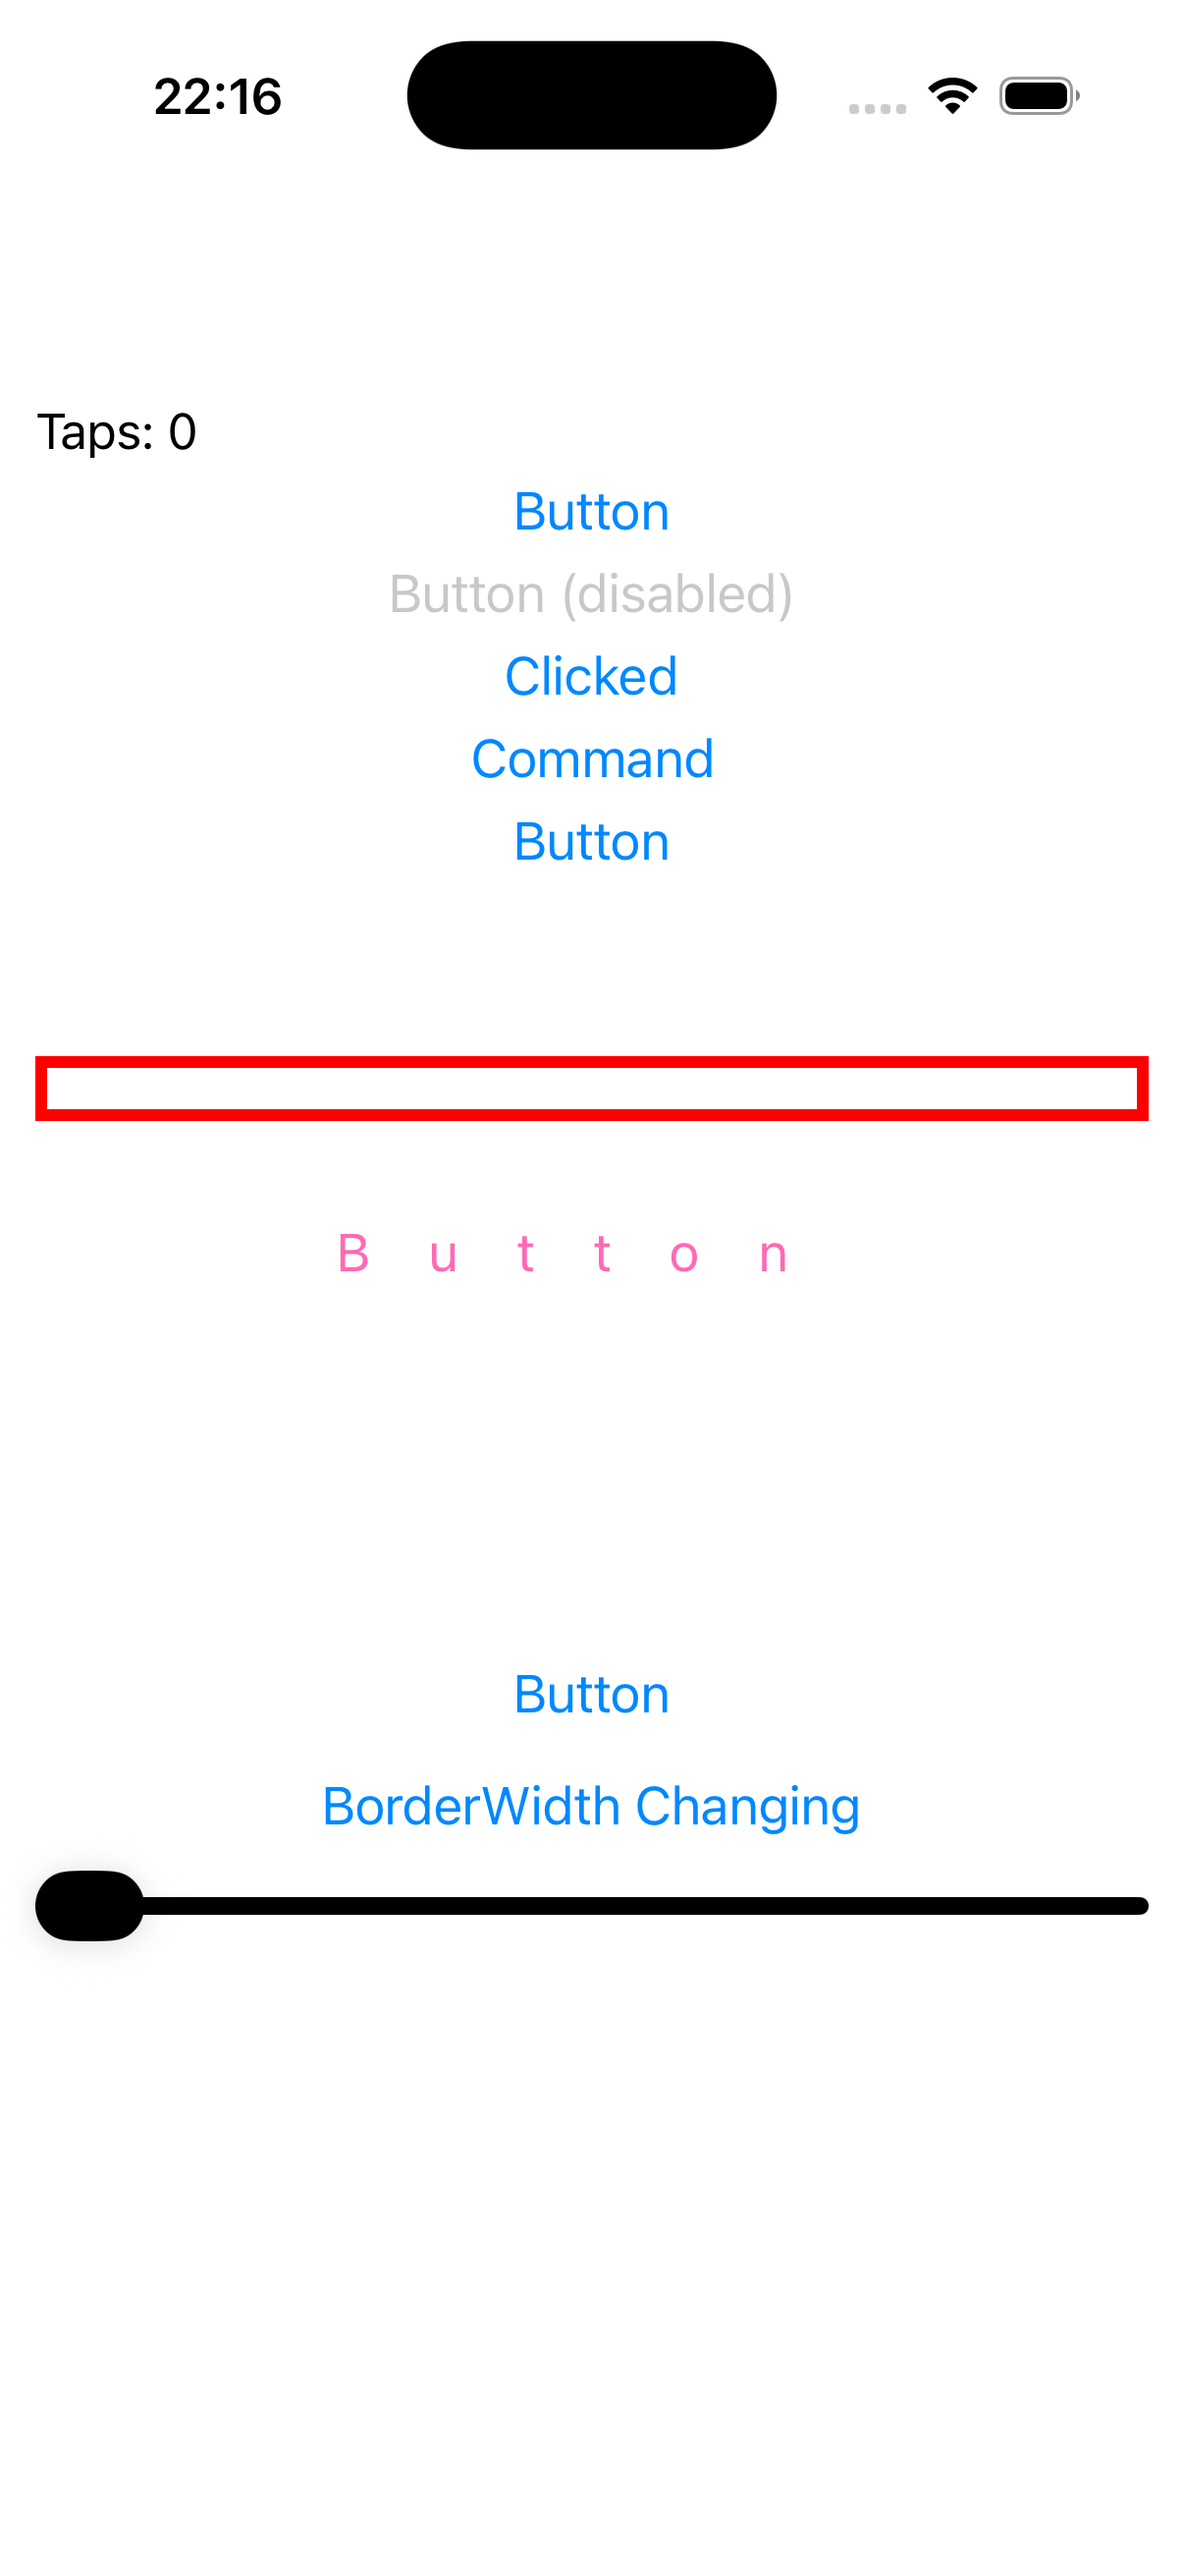
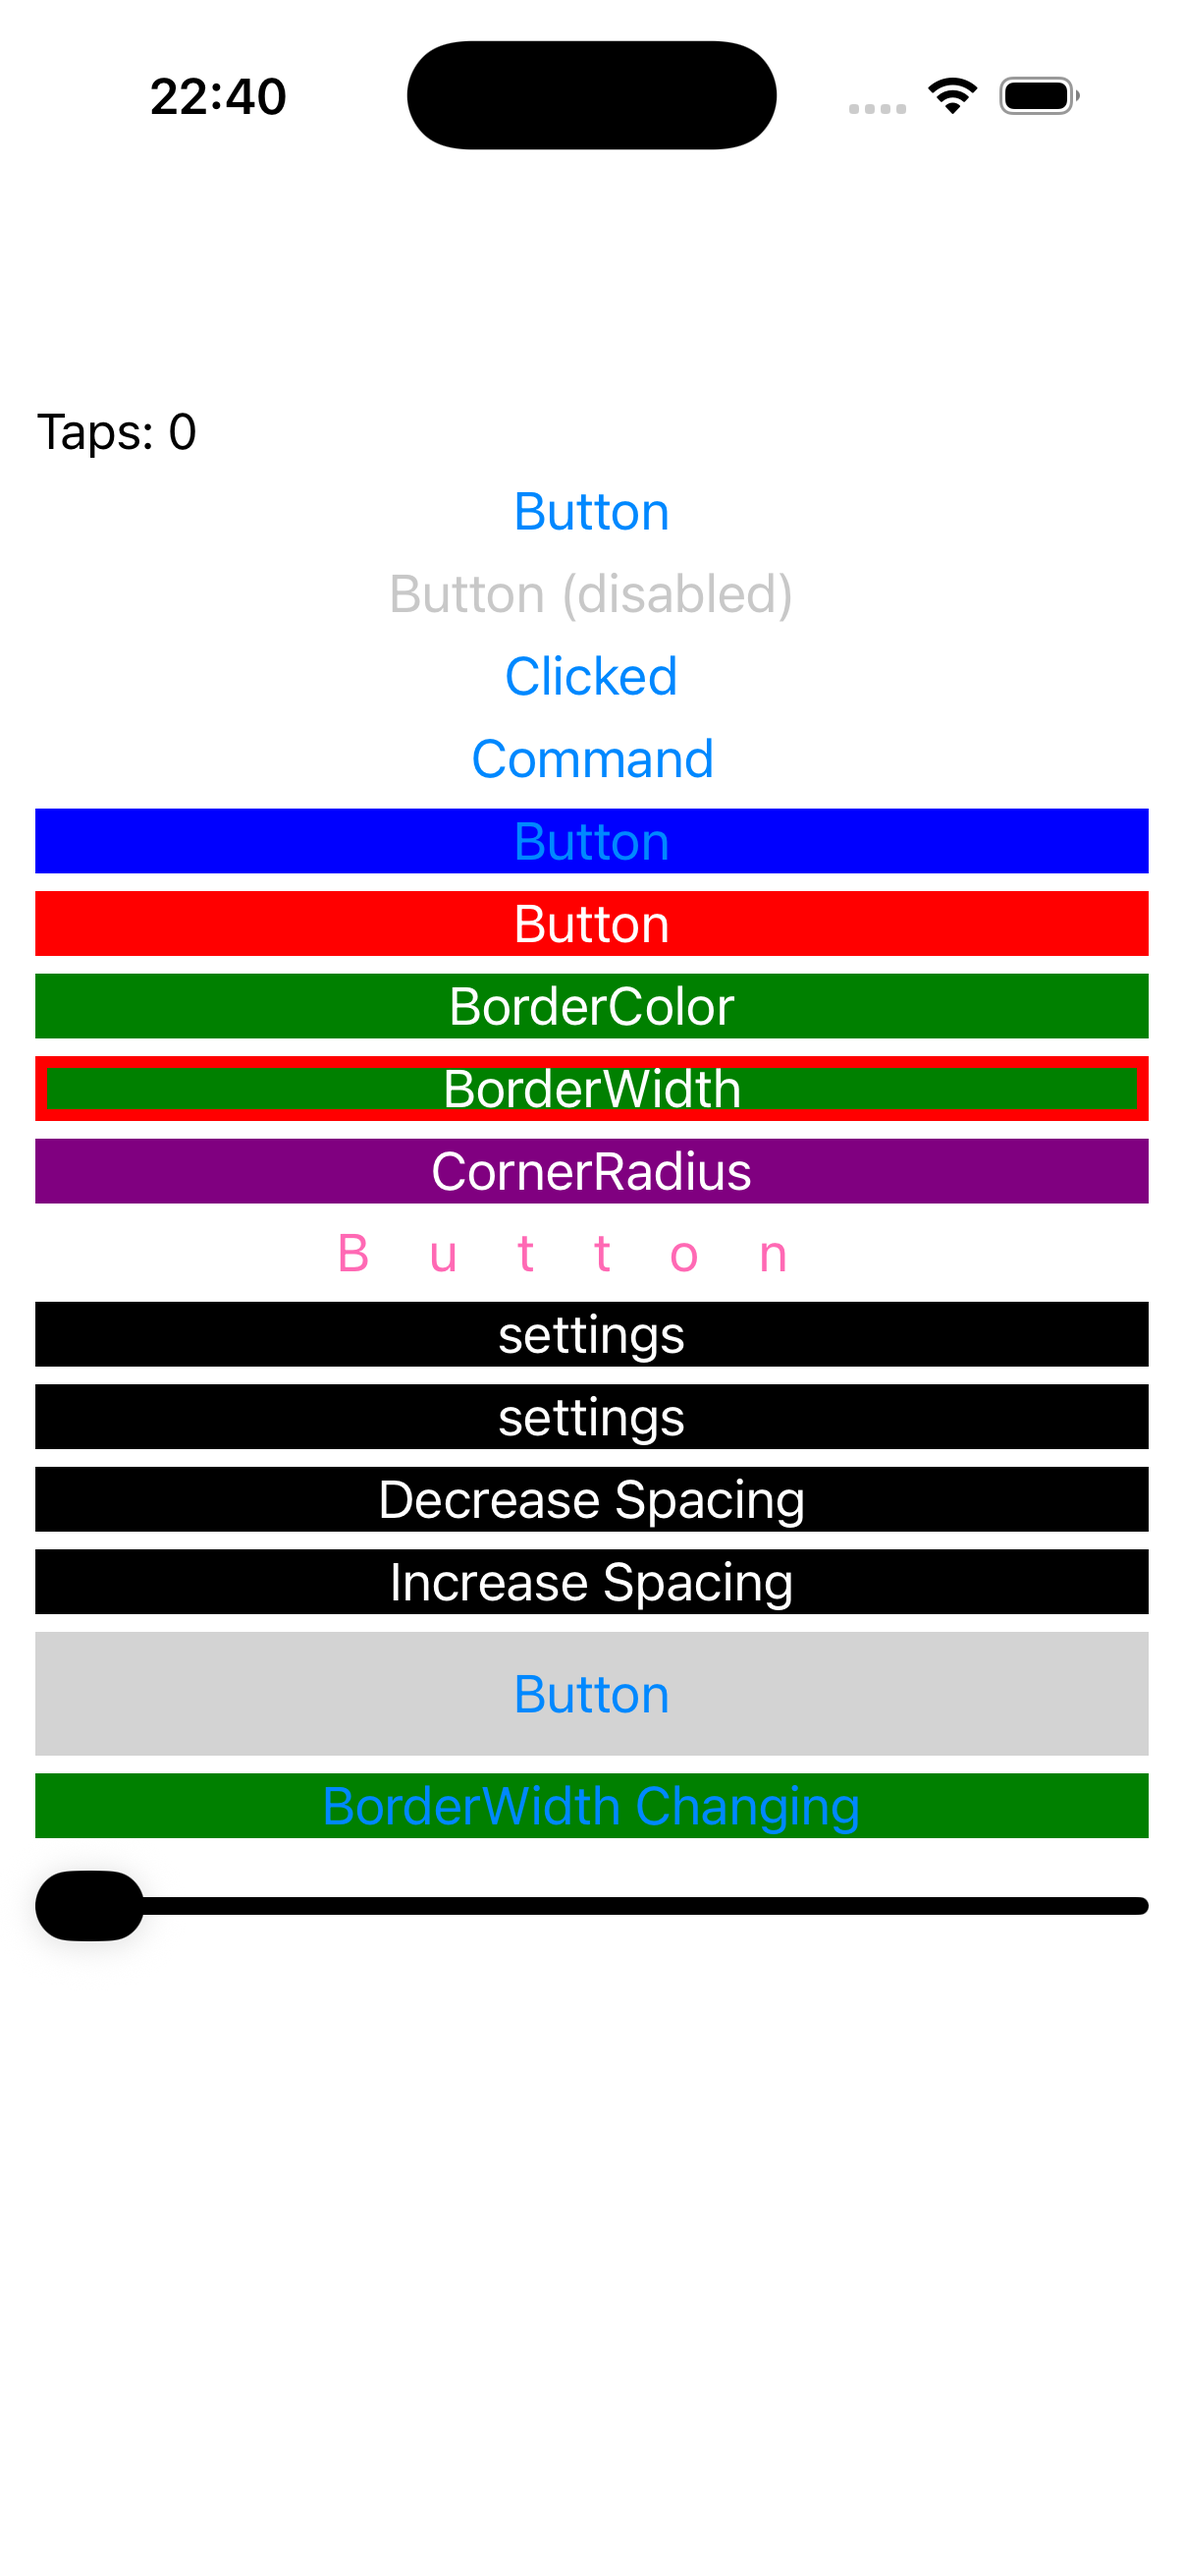
fix(ios,parity): Button renders BackgroundColor as a per-state backgroundImage (fill)
example 2/172 (button) cont'd: the iOS button deferred 'background' to the no-op base mirror, so explicit
BackgroundColor never filled (system UIButton ignores backgroundColor). Added button_platform::update_background
that draws a solid paint as a 1x1 per-state backgroundImage (MAUI ButtonHandler.MapBackground), gradients via
the shared apply_background. Colored buttons now fill in both themes; cascades to every colored-button page.
button: diff -> minor (remaining: default-button corner rounding + spacing + CornerRadius clip). tidy 0.

Changed region(s): [[0.0307, 0.3089, 0.9818, 0.7105], [0.1227, 0.0309, 0.2454, 0.0618]]

diff --git a/port/cpp/src/platform/ios/button_handler.mm b/port/cpp/src/platform/ios/button_handler.mm
@@ -26,6 +26,7 @@
 
 #include "ios_conversions.hpp"
 #include "ios_text_ops.hpp"
+#include "ios_visual_ops.hpp"
 #include "maui/core/button_handler.hpp"
 #include "maui/core/i_button.hpp"
 #include "maui/core/i_image_source.hpp"
@@ -36,6 +37,7 @@
 #include "maui/core/visibility.hpp"
 #include "maui/graphics/rect.hpp"
 #include "maui/graphics/size.hpp"
+#include "maui/graphics/solid_paint.hpp"
 
 // Obj-C trampoline: forwards the UIButton's touch target-actions to the C++ handler's virtual view.
 // Ports ButtonHandler.ButtonEventProxy — including the Released-before-Clicked order on TouchUpInside.
@@ -197,6 +199,49 @@ namespace maui::core
         const std::string id(value);
         NSString* const raw = [NSString stringWithUTF8String:id.c_str()];
         as_button(native).accessibilityIdentifier = raw != nil ? raw : @"";
+    }
+
+    namespace
+    {
+        // A 1×1 image of a solid color. A UIButton(UIButtonType.System) ignores backgroundColor for its
+        // fill, so MAUI's ButtonHandler.MapBackground draws the BackgroundColor as a per-state
+        // backgroundImage — this mints that image.
+        UIImage* solid_color_image(UIColor* color)
+        {
+            UIGraphicsImageRenderer* const renderer = [[UIGraphicsImageRenderer alloc] initWithSize:CGSizeMake(1, 1)];
+            return [renderer imageWithActions:^(UIGraphicsImageRendererContext* context) {
+              CGContextSetFillColorWithColor(context.CGContext, color.CGColor);
+              CGContextFillRect(context.CGContext, CGRectMake(0, 0, 1, 1));
+            }];
+        }
+    } // namespace
+
+    // ButtonExtensions.UpdateBackground: a system UIButton draws its BackgroundColor as a per-state
+    // backgroundImage (plain backgroundColor is ignored by the button's own drawing). A solid paint becomes
+    // a 1×1 colored image for every control state; a gradient/image paint defers to the shared layer-based
+    // apply_background; a null paint clears the override.
+    void button_platform::update_background(const maui::graphics::paint* value)
+    {
+        UIButton* const button = as_button(native);
+        if (const auto* const solid = dynamic_cast<const maui::graphics::solid_paint*>(value))
+        {
+            UIImage* const image = solid_color_image(maui::platform::ios::to_ui_color(solid->color()));
+            for (const UIControlState state : k_control_states)
+            {
+                [button setBackgroundImage:image forState:state];
+            }
+        }
+        else if (value != nullptr)
+        {
+            maui::platform::ios::apply_background(native, value);
+        }
+        else
+        {
+            for (const UIControlState state : k_control_states)
+            {
+                [button setBackgroundImage:nil forState:state];
+            }
+        }
     }
 
     namespace

diff --git a/port/cpp/include/maui/core/button_handler.hpp b/port/cpp/include/maui/core/button_handler.hpp
@@ -101,13 +101,15 @@ namespace maui::core
 #ifdef MAUI_PLATFORM_IOS
         // iOS backend (M6 scaffold): push the four fundamental IView properties to the UIButton
         // (defined in src/platform/ios/button_handler.mm). The remaining generic-IView pushes —
-        // transform / flow_direction / background / shadow / clip / semantics / input_transparent —
-        // deliberately keep the view_platform_base mirrors for now; the M6 fan-out units port the
-        // shared ios view/visual/semantics op helpers and override them here (see port/STATUS.md).
+        // transform / flow_direction / shadow / clip / semantics / input_transparent — deliberately keep
+        // the view_platform_base mirrors for now; the M6 fan-out units port the shared ios view/visual/
+        // semantics op helpers and override them here (see port/STATUS.md). background IS overridden: a
+        // UIButton's BackgroundColor must be drawn as a per-state backgroundImage (ButtonHandler.MapBackground).
         void update_visibility(maui::core::visibility value) override;
         void update_opacity(double value) override;
         void update_is_enabled(bool value) override;
         void update_automation_id(std::string_view value) override;
+        void update_background(const maui::graphics::paint* value) override;
 #endif
 
 #ifdef MAUI_PLATFORM_ANDROID

diff --git a/port/cpp/docs/comparison/README.md b/port/cpp/docs/comparison/README.md
@@ -2,7 +2,7 @@
 
 Theme-matched iOS comparison: each page rendered by **real .NET MAUI** vs the **C++ port**, on the same iPhone 17 simulator, compared **light-vs-light** and **dark-vs-dark**. Both stacks render native-default controls + the system font (the C# app's `dotnet new maui` default `Styles.xaml` + OpenSans are stripped; appearance forced via `MAUI_THEME` / `MAUI_APPEARANCE`). Goal: pixel-perfect parity, fixed example-by-example.
 
-**Progress: 0 / 172 🟢 matched** · 1 🟡 minor · 59 🔴 diff · 112 ⬜ pending
+**Progress: 0 / 172 🟢 matched** · 2 🟡 minor · 58 🔴 diff · 112 ⬜ pending
 
 Status legend: 🟢 pixel-match (both themes) · 🟡 minor diff · 🔴 notable diff to fix · ⬜ not yet reviewed. Per-theme verdicts in `parity_status.json`.
 
@@ -13,7 +13,7 @@ Rows are in **fix order** (top → bottom): foundational single controls first (
 | # | Page | Status | .NET MAUI (light) | C++ (light) | .NET MAUI (dark) | C++ (dark) |
 | --: | --- | :---: | --- | --- | --- | --- |
 | 1 | Label | 🟡<br>L:minor<br>D:minor | ![](csharp_ios_light/label.png) | ![](cpp_ios_light/label.png) | ![](csharp_ios_dark/label.png) | ![](cpp_ios_dark/label.png) |
-| 2 | Button | 🔴<br>L:diff<br>D:diff | ![](csharp_ios_light/button.png) | ![](cpp_ios_light/button.png) | ![](csharp_ios_dark/button.png) | ![](cpp_ios_dark/button.png) |
+| 2 | Button | 🟡<br>L:minor<br>D:minor | ![](csharp_ios_light/button.png) | ![](cpp_ios_light/button.png) | ![](csharp_ios_dark/button.png) | ![](cpp_ios_dark/button.png) |
 | 3 | Entry | ⬜<br>L:pending<br>D:pending | ![](csharp_ios_light/entry.png) | ![](cpp_ios_light/entry.png) | ![](csharp_ios_dark/entry.png) | ![](cpp_ios_dark/entry.png) |
 | 4 | Editor | 🔴<br>L:minor<br>D:diff | ![](csharp_ios_light/editor.png) | ![](cpp_ios_light/editor.png) | ![](csharp_ios_dark/editor.png) | ![](cpp_ios_dark/editor.png) |
 | 5 | Search Bar | ⬜<br>L:pending<br>D:pending | ![](csharp_ios_light/search_bar.png) | ![](cpp_ios_light/search_bar.png) | ![](csharp_ios_dark/search_bar.png) | ![](cpp_ios_dark/search_bar.png) |
